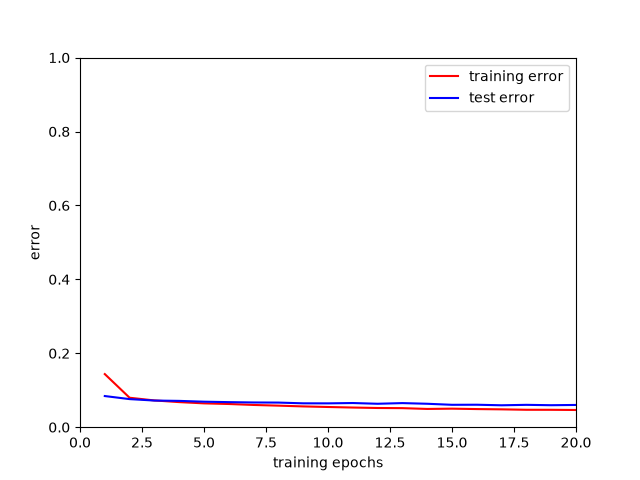
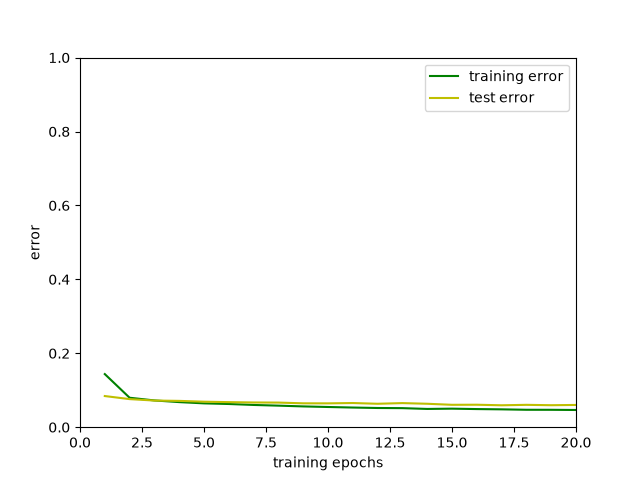
create image

Changed region(s): [[0.1562, 0.7812, 0.9062, 0.875], [0.6875, 0.1562, 0.7188, 0.2188]]

diff --git a/Note/Deep Learning/Ch04 Fully Connected Network to Multiclass Classifcation/Ch4-6 Classifying Handwritten Digits/Classifying Handwritten Digits.py b/Note/Deep Learning/Ch04 Fully Connected Network to Multiclass Classifcation/Ch4-6 Classifying Handwritten Digits/Classifying Handwritten Digits.py
@@ -135,7 +135,7 @@ chart_x = [] # an array for X-axis data（ number of epoch ）
 chart_y_training_error = []  # an array for Y-axis data（ training error ）
 chart_y_test_error = []  # an array for Y-axis data（ test error ）
 
-def show_learning( epoch, acc_of_training_error, acc_of_test_error ):
+def show_learning( epoch, acc_of_training_error, acc_of_test_error ) :
     # tell Python that the "chart_x" , "chart_y_training_error" , "chart_y_test_error" I use later is the old array in global scope, 
     # not the new one I create in this local scope.
     global chart_x
@@ -155,8 +155,10 @@ def plot_learning() :
     # plt.plot( x-axis data coordinates , y-axis data coordinates  , format specifying the line style , text label assigned to the line )
     #'b-' : 'b' sets the color to blue and '-' creates a solid line.
     #'r-' : 'r' sets the color to red and '-' creates a solid line.
-    plt.plot( chart_x , chart_y_training_error , 'r-' , label = 'training error' ) 
-    plt.plot( chart_x , chart_y_test_error , 'b-' , label = 'test error' ) 
+    #'g-' : 'g' sets the color to green and '-' creates a solid line.
+    #'y-' : 'y' sets the color to yellow and '-' creates a solid line.
+    plt.plot( chart_x , chart_y_training_error , 'g-' , label = 'training error' ) 
+    plt.plot( chart_x , chart_y_test_error , 'y-' , label = 'test error' ) 
     # plt.axis( [ xmin , xmax , ymin , ymax ] ) : set limits for x-axis from xmin to xmax and y-axis from ymin to ymax.
     plt.axis( [ 0, len( chart_x ) , 0.0 , 1.0 ] )
     # plt.xlabel( ' ' ) : descriptive label for the horizontal x-axis
